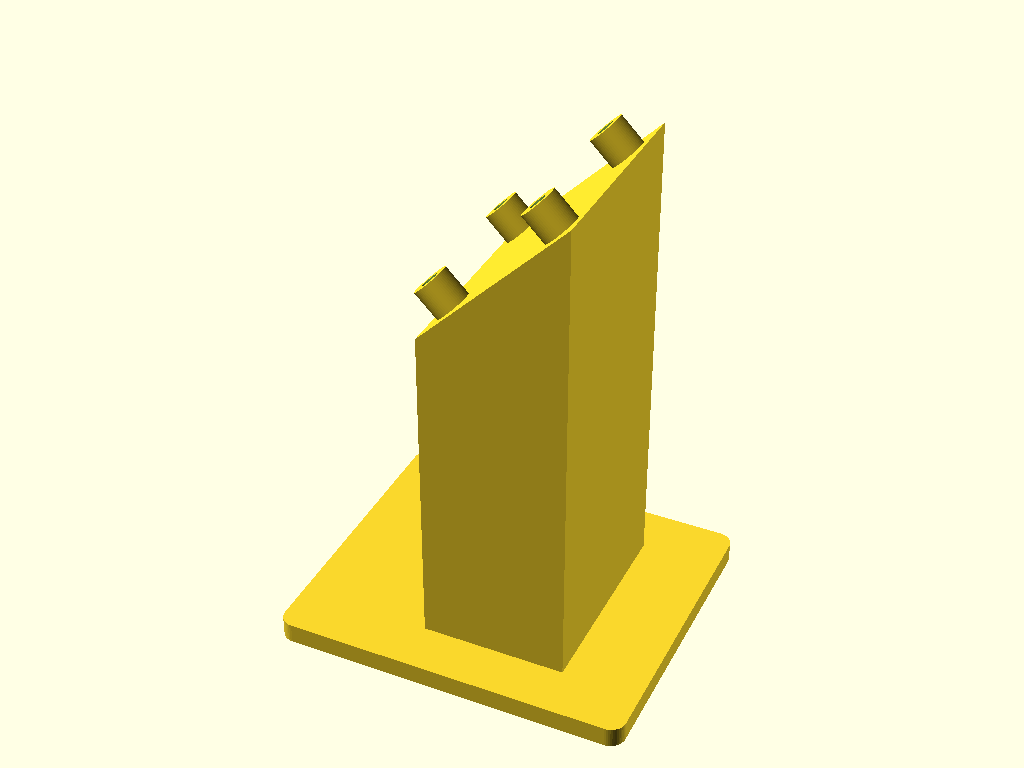
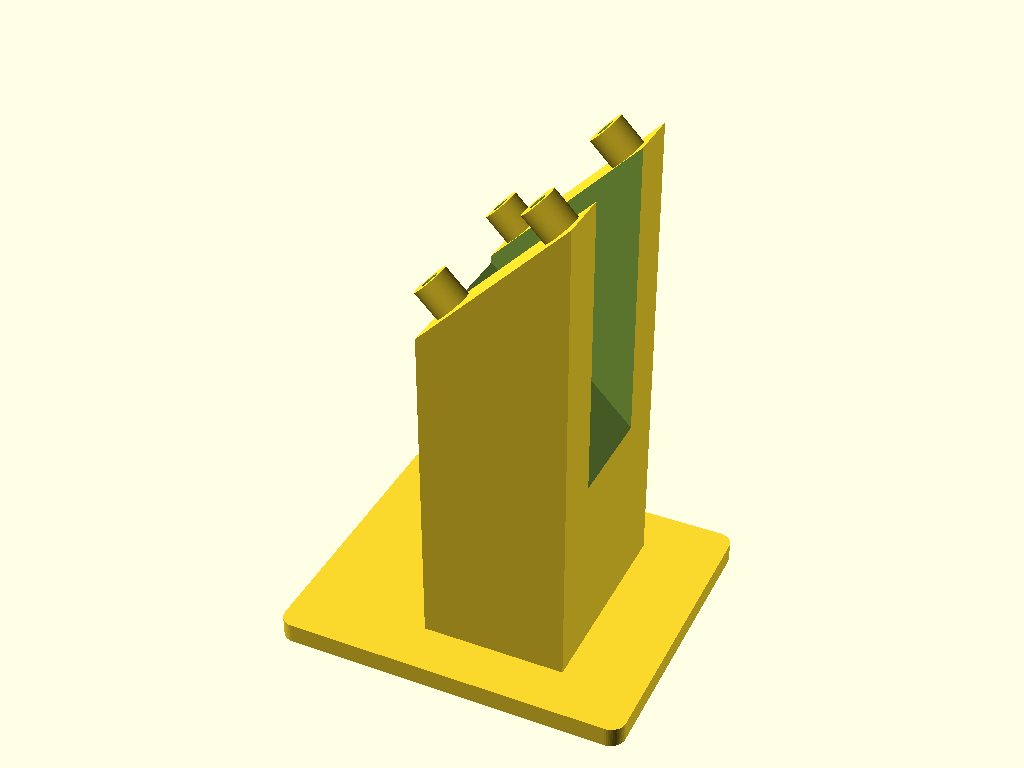
3dprints: eye tracker stand: slot for the camera's USB cable
Human Text:
None

LLM Text:
The U20CAM-9281M's cable plugs into a 1.25 mm 5-pin connector on the back
of the board and leaves straight out the back, into the solid tower. A 20 mm
slot between the standoff pairs now runs the length of the face and out the
rear of the tower, so the plug and cable pass through.

Changed region(s): [[0.5312, 0.1875, 0.625, 0.625], [0.4375, 0.2812, 0.5312, 0.375]]

diff --git a/3dprints/eye-tracker-stand/NOTES.md b/3dprints/eye-tracker-stand/NOTES.md
@@ -10,5 +10,11 @@ and toward the front (-X) at 45°, with the centre of its front face 88.9 mm (3.
 - Hardware: 4x M2 heat-set inserts (M2*H4, 3.4 mm holes, the size from
   3dprints/laundry-sensor/insert-test) and 4x M2 screws. Screw length: board 1.6 mm + insert 4 mm,
   so M2 x 5 or x 6.
-- The standoffs leave a 6 mm gap behind the board for its back-side parts and the cable plug
-  (`standoff_h`). Unverified until the board is on it.
+- USB cable: the board's cable plugs into a 5-pin 1.25 mm connector on its back, at one edge next
+  to the 5V/DM/DP/G/G pads, with the wires leaving straight out the back (inno-maker U20CAM-9281M
+  datasheet, section 2.5). A 20 mm slot (`slot_w`) runs the length of the face between the two
+  standoff pairs and straight back out of the rear of the tower. Thread the loose end of the cable
+  through the slot from the back, plug it into the board, then screw the board down. Mount the board
+  with the connector edge at the top or bottom of the slope so the plug lands in the slot.
+- The standoffs leave a 6 mm gap behind the board for its back-side parts (`standoff_h`).
+  Unverified until the board is on it.
